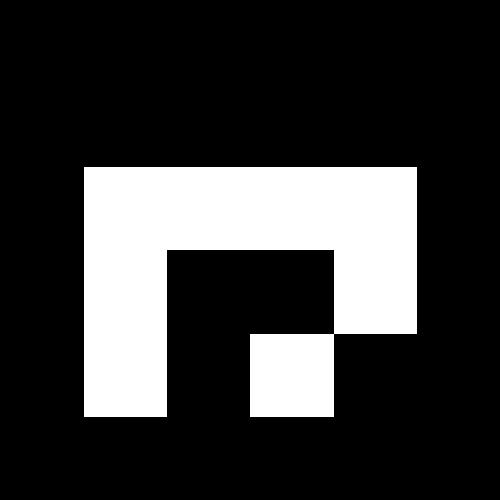
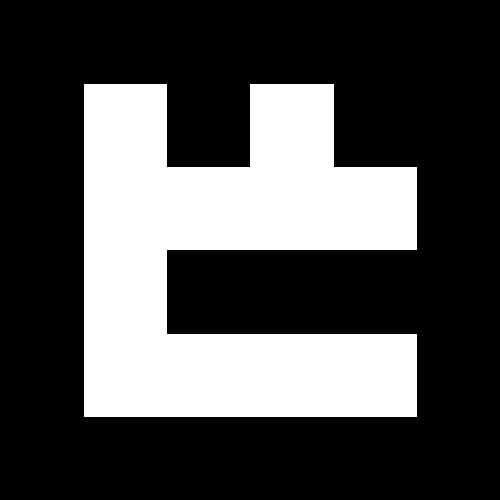
minor bug fixes & created camera calibration
cleaned up the code and tested functionalty so far
started with camera calibration, but just pasted in some initial methods

diff --git a/arucreate.py b/arucreate.py
@@ -7,9 +7,12 @@ import imageio
 
 class ARU_DICT:
 
-# creates a custom aruco dictionary (_aruco_dict) with n aruco markers in marker size s _aruco_needed), labeled with label_1,_2,_3,_4
-# LABELS MÜSSEN NOCH DYNAMISCH WERDEN ; SIND NICHT IMMER 4
-    def __init__(self, n=4, s=4, label_1="front", label_2="left", label_3="right", label_4="back"):
+# creates a custom aruco dictionary (_aruco_dict) with n aruco markers in marker size s (_aruco_needed) with labels from the given list of labels
+    def __init__(self, n=4, s=4, labels=["front", "left", "right", "back"]):
+        if len(labels) != n:
+            print("There are " + str(len(labels)) + " labels found for " + str(n) + " markers. Please insert one label for each marker.")
+            return
+        '''
         if s == 4:
             dict = aruco.getPredefinedDictionary(aruco.DICT_4X4_50)
         elif s == 5:
@@ -21,36 +24,13 @@ class ARU_DICT:
         else:
             print("no useful marker size entered! Choose marker size 4, 5, 6 or 7")
             return
+        '''
 
-        self._aruco_dict = aruco.Dictionary_create_from(n, s, dict)
+        self._aruco_dict = aruco.custom_dictionary(n, s)
         self._aruco_needed = n
-
-        self._aruco_1 = label_1
-        self._aruco_2 = label_2
-        self._aruco_3 = label_3
-        self._aruco_4 = label_4
+        self._aruco_labels = labels
 
         self.show_arucos()
-
-# ----------------------------------------------------------------------------------------------------------------------
-# creates a custom aruco dictionary (class variable _aruco_dict) with optional n = 4 aruco markers in marker size optional s = 4 (class variable _aruco_needed)
-    def create_aruco_dict(n=4, s=4):
-
-        if s == 4:
-            dict = aruco.getPredefinedDictionary(aruco.DICT_4X4_50)
-        elif s == 5:
-            dict = aruco.Dictionary_get(aruco.DICT_5X5_50)
-        elif s == 6:
-            dict = aruco.Dictionary_get(aruco.DICT_6X6_50)
-        elif s == 7:
-            dict = aruco.Dictionary_get(aruco.DICT_7X7_50)
-        else:
-            print("no useful marker size entered! Choose marker size 4, 5, 6 or 7")
-            return
-
-        _aruco_dict = aruco.Dictionary_create_from(n, s, dict)
-        _aruco_needed = n
-        #show_arucos()
 
 # ----------------------------------------------------------------------------------------------------------------------
 # shows all 4 relevant aruco markers in one window
@@ -61,7 +41,7 @@ class ARU_DICT:
 
         for i in range(1, self._aruco_needed + 1):
             win = frame.add_subplot(2, subplot1, i)
-            img = aruco.drawMarker(self._aruco_dict, i, 500)
+            img = aruco.drawMarker(self._aruco_dict, (i-1), 500)
             py_mpl.imshow(img, cmap=mpl.cm.gray)
             win.axis("off")
 
@@ -71,25 +51,25 @@ class ARU_DICT:
 # find aruco marker i with its label and displays it
     def lookup_aruco_nr(self, i):
         if i == 1:
-            frame = py_mpl.figure("Aruco Nr 1 -" + self._aruco_1)
+            frame = py_mpl.figure("Aruco Nr 1 -" + self._aruco_labels[i-1])
         elif i == 2:
-            frame = py_mpl.figure("Aruco Nr 2 -" + self._aruco_2)
+            frame = py_mpl.figure("Aruco Nr 2 -" + self._aruco_labels[i-1])
         elif i == 3:
-            frame = py_mpl.figure("Aruco Nr 3 -" + self._aruco_3)
+            frame = py_mpl.figure("Aruco Nr 3 -" + self._aruco_labels[i-1])
         elif i == 4:
-            frame = py_mpl.figure("Aruco Nr 4 -" + self._aruco_4)
+            frame = py_mpl.figure("Aruco Nr 4 -" + self._aruco_labels[i-1])
         else:
             print("This marker is unknown for this application. Known marker ids: \n id_1: front \n id_2: left \n id_3: right \n id_4: back")
             return
 
-        img = aruco.drawMarker(self._aruco_dict, i - 1, 500)
+        img = aruco.drawMarker(self._aruco_dict, (i - 1), 500)
         py_mpl.imshow(img, cmap=mpl.cm.gray)
         py_mpl.axis("off")
         py_mpl.show()
 
 # ----------------------------------------------------------------------------------------------------------------------
 # detects markers from respective custom dictionary in an image or captured video and prints out the information
-    def lookup_aruco_img(self):
+    def detect_aruco(self):
         # get img for comparison
         #checkimg = cv.imread("_markers/marker_advanced.jpg")
 
@@ -99,10 +79,6 @@ class ARU_DICT:
         while(True):
             # Capture frame-by-frame
             ret, frame = cap.read()
-
-            # Our operations on the frame come here
-            # GREY DOES NOT SEEM TO BE A GOOD IDEA
-            #gray = cv.cvtColor(frame, cv.COLOR_BGR2GRAY)
 
             parameters = aruco.DetectorParameters_create()
             corners, ids, rejectedImgPoints = aruco.detectMarkers(frame, self._aruco_dict, parameters=parameters)
@@ -114,14 +90,13 @@ class ARU_DICT:
                 py_mpl.imshow(frame_markers, origin = "upper")
                 for i in range(0, len(ids)):
                     c = corners[i][0]
-                    py_mpl.plot([c[:, 0].mean()], [c[:, 1].mean()], "+", label = "Marker = {0}".format(ids[i]+1))
+                    py_mpl.plot([c[:, 0].mean()], [c[:, 1].mean()], "+", label="Marker = {0}".format(ids[i]+1))
                 py_mpl.legend()
                 py_mpl.axis("off")
 
                 # print/show image with information about recognized markers
                 #py_mpl.show()
-                i_str = str(ids[i]+1)
-                print("recognized marker: " + i_str)
+                print("recognized marker: " + str(ids[i]+1))
 
             # Display the resulting frame
             cv.imshow('video frame', frame)
@@ -139,9 +114,8 @@ class ARU_DICT:
         if isinstance(self._aruco_needed, int):
             for i in range(0, self._aruco_needed):
                 img = aruco.drawMarker(self._aruco_dict, i, 500)
-                i_str = str(i+1)
-                imageio.imwrite("_markers/marker_"+i_str+".jpg", img)
-                print("Marker", i_str, "ist gespeichert.")
+                imageio.imwrite("_markers/marker_"+str(i+1)+".jpg", img)
+                print("Marker", str(i+1), "saved.")
 
 # ----------------------------------------------------------------------------------------------------------------------
 

diff --git a/camera_calibration.py b/camera_calibration.py
@@ -1,0 +1,104 @@
+import numpy as np
+import cv2 as cv
+
+# handles camera calibration process
+def calibrate(aruco_dict):
+    images = capture_image()
+    calibrate_arucos(images, aruco_dict)
+
+# ----------------------------------------------------------------------------------------------------------------------
+# captures images for calibration and saves them to _calibration
+def capture_image():
+    cam = cv.VideoCapture(0)
+    cv.namedWindow("Calibrate Camera")
+    images = []
+    img_counter = 0
+
+    while True:
+        ret, frame = cam.read()
+        cv.imshow("Calibrate Camera", frame)
+        if not ret:
+            break
+        k = cv.waitKey(1)
+
+        # quit on q
+        if k & 0xFF == ord('q'):
+
+            break
+        elif k%256 == 32:
+            # SPACE pressed
+            img_name = "camera_calibration_{}.png".format(img_counter)
+            cv.imwrite("_calibration/{}".format(img_name), frame)
+            images.append(frame)
+            print("{} saved for calibration!".format(img_name))
+            img_counter += 1
+
+    cam.release()
+    cv.destroyAllWindows()
+
+    return images
+
+# ----------------------------------------------------------------------------------------------------------------------
+# detects aruco markers in the calibration images and calculates corners, ids
+def calibrate_arucos(images, aruco_dict):
+    """
+    Charuco base pose estimation.
+    """
+    print("There are {} images for calibration. POSE ESTIMATION STARTS:".format(str(len(images))))
+    allCorners = []
+    allIds = []
+    decimator = 0
+    # SUB PIXEL CORNER DETECTION CRITERION
+    criteria = (cv.TERM_CRITERIA_EPS + cv.TERM_CRITERIA_MAX_ITER, 100, 0.00001)
+
+    for im in images:
+        print("=> Processing image {0}".format(im))
+        frame = cv.imread(im)
+        corners, ids, rejectedImgPoints = cv.aruco.detectMarkers(frame, aruco_dict)
+
+        if len(corners)>0:
+            # SUB PIXEL DETECTION
+            for corner in corners:
+                cv.cornerSubPix(frame, corner,
+                                 winSize = (3, 3),
+                                 zeroZone = (-1, -1),
+                                 criteria = criteria)
+            res2 = cv.aruco.interpolateCornersCharuco(corners, ids, frame, board)
+            if res2[1] is not None and res2[2] is not None and len(res2[1]) > 3 and decimator%1==0:
+                allCorners.append(res2[1])
+                allIds.append(res2[2])
+
+        decimator+=1
+
+    imsize = frame.shape
+    return allCorners, allIds, imsize
+
+# calibrates camera via matrix and distortion coefficients estimation (needed for pose estimation)
+def calibrate_camera(allCorners, allIds, imsize):
+    """
+    Calibrates the camera using the dected corners.
+    """
+    print("CAMERA CALIBRATION")
+
+    cameraMatrixInit = np.array([[ 1000.,    0., imsize[0]/2.],
+                                 [    0., 1000., imsize[1]/2.],
+                                 [    0.,    0.,           1.]])
+
+    distCoeffsInit = np.zeros((5,1))
+    flags = (cv.CALIB_USE_INTRINSIC_GUESS + cv.CALIB_RATIONAL_MODEL + cv.CALIB_FIX_ASPECT_RATIO)
+    #flags = (cv.CALIB_RATIONAL_MODEL)
+    (ret, camera_matrix, distortion_coefficients0,
+     rotation_vectors, translation_vectors,
+     stdDeviationsIntrinsics, stdDeviationsExtrinsics,
+     perViewErrors) = cv.aruco.calibrateCameraCharucoExtended(
+                      charucoCorners=allCorners,
+                      charucoIds=allIds,
+                      board=board,
+                      imageSize=imsize,
+                      cameraMatrix=cameraMatrixInit,
+                      distCoeffs=distCoeffsInit,
+                      flags=flags,
+                      criteria=(cv.TERM_CRITERIA_EPS & cv.TERM_CRITERIA_COUNT, 10000, 1e-9))
+
+    return ret, camera_matrix, distortion_coefficients0, rotation_vectors, translation_vectors
+

diff --git a/police-chase.py b/police-chase.py
@@ -1,2 +1,13 @@
-import aruloc;
-import arucreate;
+import arucreate
+import camera_calibration
+
+
+police_chase_dic = arucreate.ARU_DICT()
+#police_chase_dic = arucreate.ARU_DICT(3, 7, ["front", "left", "right"])
+
+camera_calibration.calibrate(police_chase_dic._aruco_dict)
+
+#police_chase_dic.save_aruco_images()
+
+#police_chase_dic.lookup_aruco_nr(4)
+police_chase_dic.detect_aruco()
